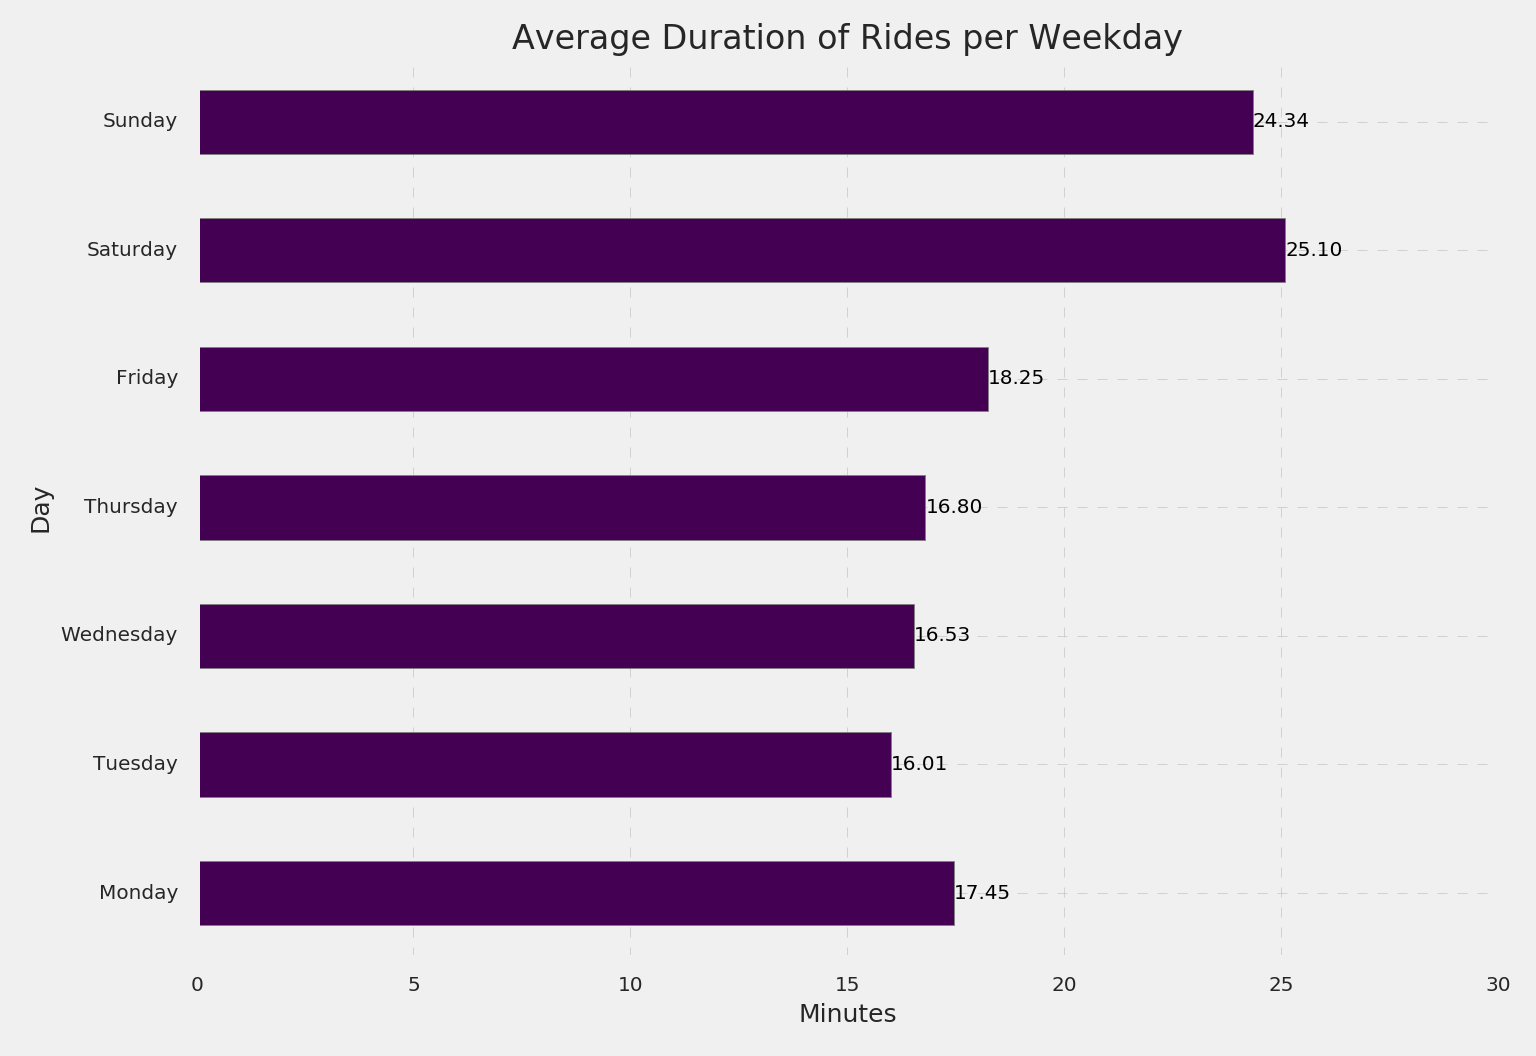
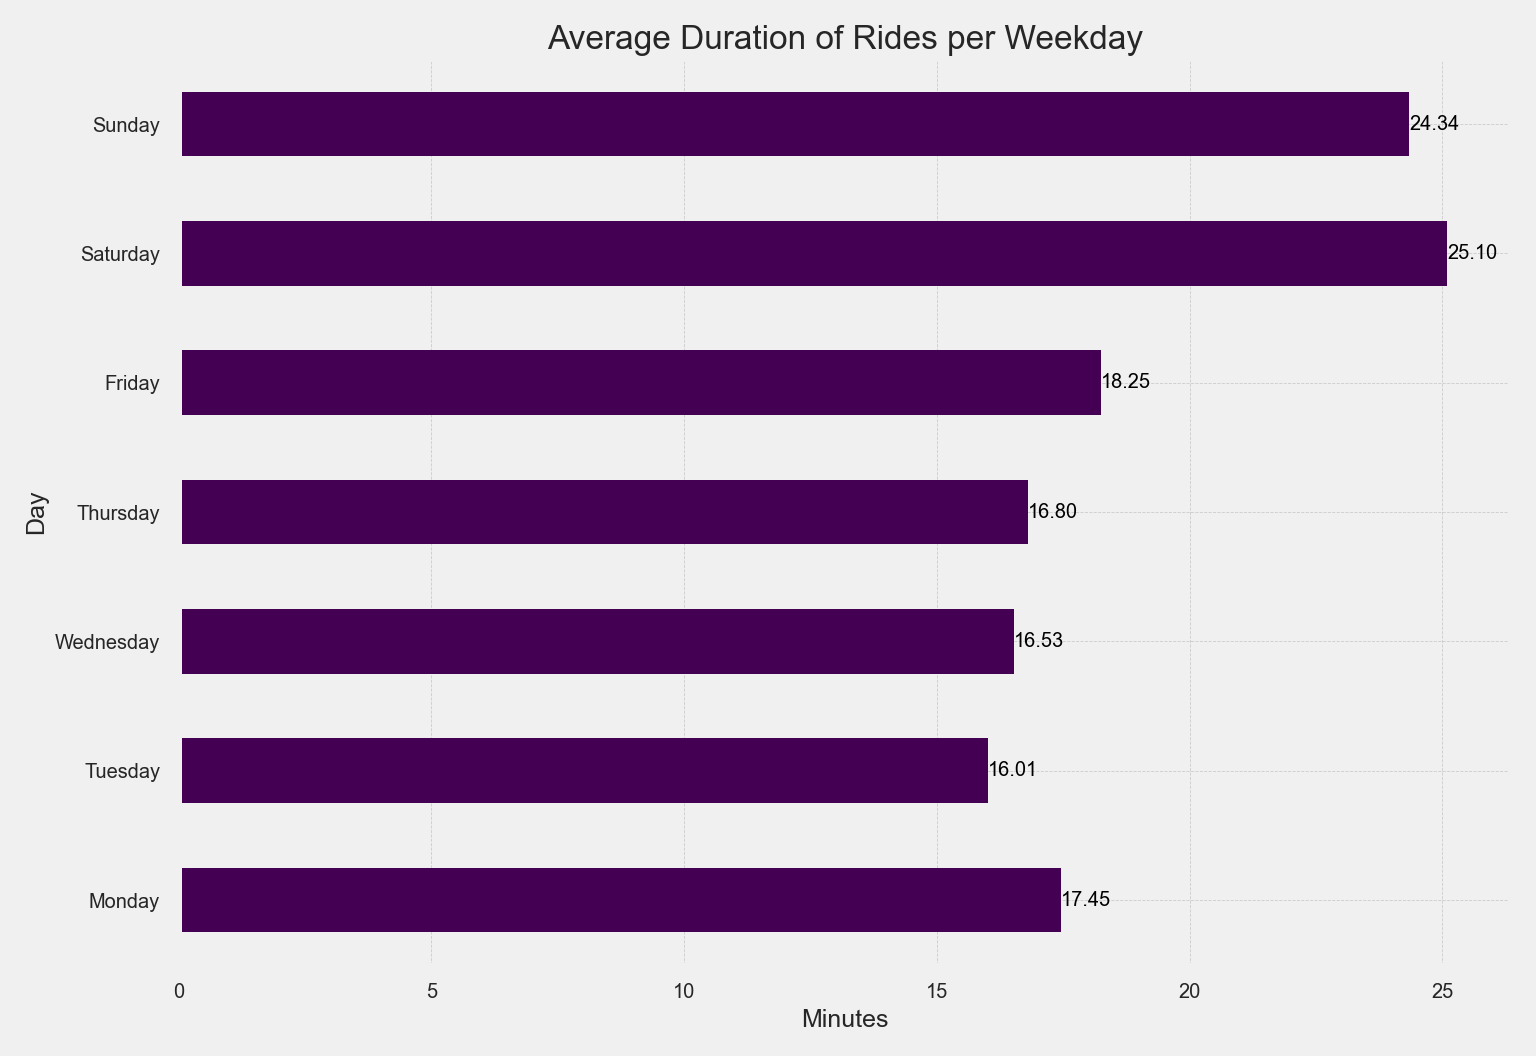
.

diff --git a/2018/src/data/data_analysis.py b/2018/src/data/data_analysis.py
@@ -97,8 +97,8 @@ plt.savefig("../../reports/figures/top_start_stations.png", dpi=120)
 plt.show()
 
 # converting the start and end time to datetime
-y2018["Start date"] = pd.to_datetime(y2018["Start date"], errors="ignore")
-y2018["End date"] = pd.to_datetime(y2018["End date"], errors="ignore")
+y2018["Start date"] = pd.to_datetime(y2018["Start date"])
+y2018["End date"] = pd.to_datetime(y2018["End date"])
 y2018.dtypes
 
 # Creating new columns for the day of the week
@@ -158,8 +158,8 @@ day_of_week2["avg_dur_minute"] = avg_duration
 
 # visualizing the total duration of rides per day of the week
 plt.figure(figsize=(18, 8), dpi=120)
-ax = day_of_week2.plot.barh(y="tot_dur_minute", legend=False)
-plt.style.use("seaborn-v0_8-poster")
+plt.style.use("fivethirtyeight")
+ax = day_of_week2.plot.barh(y="tot_dur_hour", legend=False, cmap="viridis")
 plt.title("Total duration of rides per weekday")
 plt.ylabel("Day")
 plt.xlabel("Minutes")
@@ -171,10 +171,7 @@ plt.show()
 # visualizing the average duration of rides per day of the week
 plt.figure(figsize=(18, 8), dpi=120)
 plt.style.use("fivethirtyeight")
-# Plot with the current color map
-ax = day_of_week2.plot.barh(
-    y="avg_dur_minute", legend=False, cmap="viridis", edgecolor="grey"
-)
+ax = day_of_week2.plot.barh(y="avg_dur_minute", legend=False, cmap="viridis")
 plt.title(f"Average Duration of Rides per Weekday", fontsize=20)
 plt.ylabel("Day", fontsize=15)
 plt.xlabel("Minutes", fontsize=15)
@@ -189,4 +186,107 @@ for index, value in enumerate(day_of_week2["avg_dur_minute"]):
     )
 plt.tight_layout()
 plt.savefig(f"../../reports/figures/average_duration_per_day.png", dpi=120)
+plt.show()
+
+# Average duration of rides per starting hour
+y2018["hour"] = y2018["Start date"].dt.hour
+by_hour = y2018.groupby("hour")["Duration"].mean() / 60
+
+# Total rides count per starting hour
+ride_count_hour = y2018["hour"].value_counts().sort_index()
+
+# Merge the two dataframes
+hourly = pd.concat([by_hour, ride_count_hour], axis=1)
+
+# Visualizing the total duration of rides per starting hour
+plt.figure(figsize=(18, 8), dpi=120)
+plt.style.use("fivethirtyeight")
+ax = hourly.plot.bar(y="count", legend=False, cmap="viridis")
+plt.title("Total rides per starting hour")
+plt.ylabel("Count of rides")
+plt.xlabel("Hour")
+plt.tight_layout()
+plt.savefig("../../reports/figures/total_rides_per_hour.png", dpi=120)
+plt.show()
+
+# Visualizing the average duration of rides per starting hour
+plt.figure(figsize=(18, 8), dpi=120)
+plt.style.use("fivethirtyeight")
+ax = hourly.plot.bar(y="Duration", legend=False, cmap="viridis")
+plt.title("Average rides duration per starting hour")
+plt.ylabel("Count of rides")
+plt.xlabel("Hour")
+plt.tight_layout()
+plt.savefig("../../reports/figures/total_rides_per_hour.png", dpi=120)
+plt.show()
+
+# Creating df representing Count of rides per minute duration
+duration = y2018["Duration"] // 60
+duration = duration[duration < 121].value_counts().sort_index()
+duration = duration.reset_index()
+duration.columns = ["Minute", "Count"]
+duration_60 = duration[duration["Minute"] <= 60]
+duration_120 = duration[duration["Minute"] > 60]
+
+# Plot for durations up to 60 minutes
+plt.figure(figsize=(18, 8), dpi=120)
+plt.style.use("fivethirtyeight")
+plt.bar(duration_60["Minute"], duration_60["Count"], color="blue")
+plt.title("Count of rides per minute duration (0-60 minutes)")
+plt.ylabel("Count of rides")
+plt.xlabel("Duration in minutes")
+plt.xticks(rotation=90)
+plt.grid(True)
+plt.tight_layout()
+plt.savefig("../../reports/figures/rides_per_minute_duration_60.png", dpi=120)
+plt.show()
+
+# Plot for durations up to 120 minutes
+plt.figure(figsize=(18, 8), dpi=120)
+plt.style.use("fivethirtyeight")
+plt.bar(duration_120["Minute"], duration_120["Count"], color="green")
+plt.title("Count of rides per minute duration (0-120 minutes)")
+plt.ylabel("Count of rides")
+plt.xlabel("Duration in minutes")
+plt.xticks(rotation=90)
+plt.grid(True)
+plt.tight_layout()
+plt.savefig("../../reports/figures/rides_per_minute_duration_120.png", dpi=120)
+plt.show()
+
+# Combined plot with subplots
+fig, axes = plt.subplots(1, 2, figsize=(18, 8), dpi=120)
+plt.style.use("fivethirtyeight")
+
+# First subplot for the first hour
+axes[0].bar(duration_60["Minute"], duration_60["Count"], color="blue")
+axes[0].set_title("Count of rides per minute duration (0-60 minutes)")
+axes[0].set_xlabel("Duration in minutes")
+axes[0].set_ylabel("Count of rides")
+axes[0].grid(True)
+axes[0].tick_params(axis="x", rotation=90)
+
+# Second subplot for the second hour
+axes[1].bar(duration_120["Minute"], duration_120["Count"], color="green")
+axes[1].set_title("Count of rides per minute duration (0-120 minutes)")
+axes[1].set_xlabel("Duration in minutes")
+axes[1].set_ylabel("Count of rides")
+axes[1].grid(True)
+axes[1].tick_params(axis="x", rotation=90)
+plt.tight_layout()
+plt.savefig("../../reports/figures/combined_rides_per_minute_duration.png", dpi=120)
+plt.show()
+
+
+# One plot showing whole 2h span
+plt.figure(figsize=(18, 8), dpi=120)
+plt.style.use("fivethirtyeight")
+plt.bar(duration["Minute"], duration["Count"], color="royalblue")
+plt.title("Count of rides per minute duration")
+plt.ylabel("Count of rides")
+plt.xlabel("Duration in minutes")
+plt.xticks(rotation=90)
+plt.grid(True)
+plt.tight_layout()
+plt.savefig("../../reports/figures/rides_per_minute_duration_combined.png")
 plt.show()
